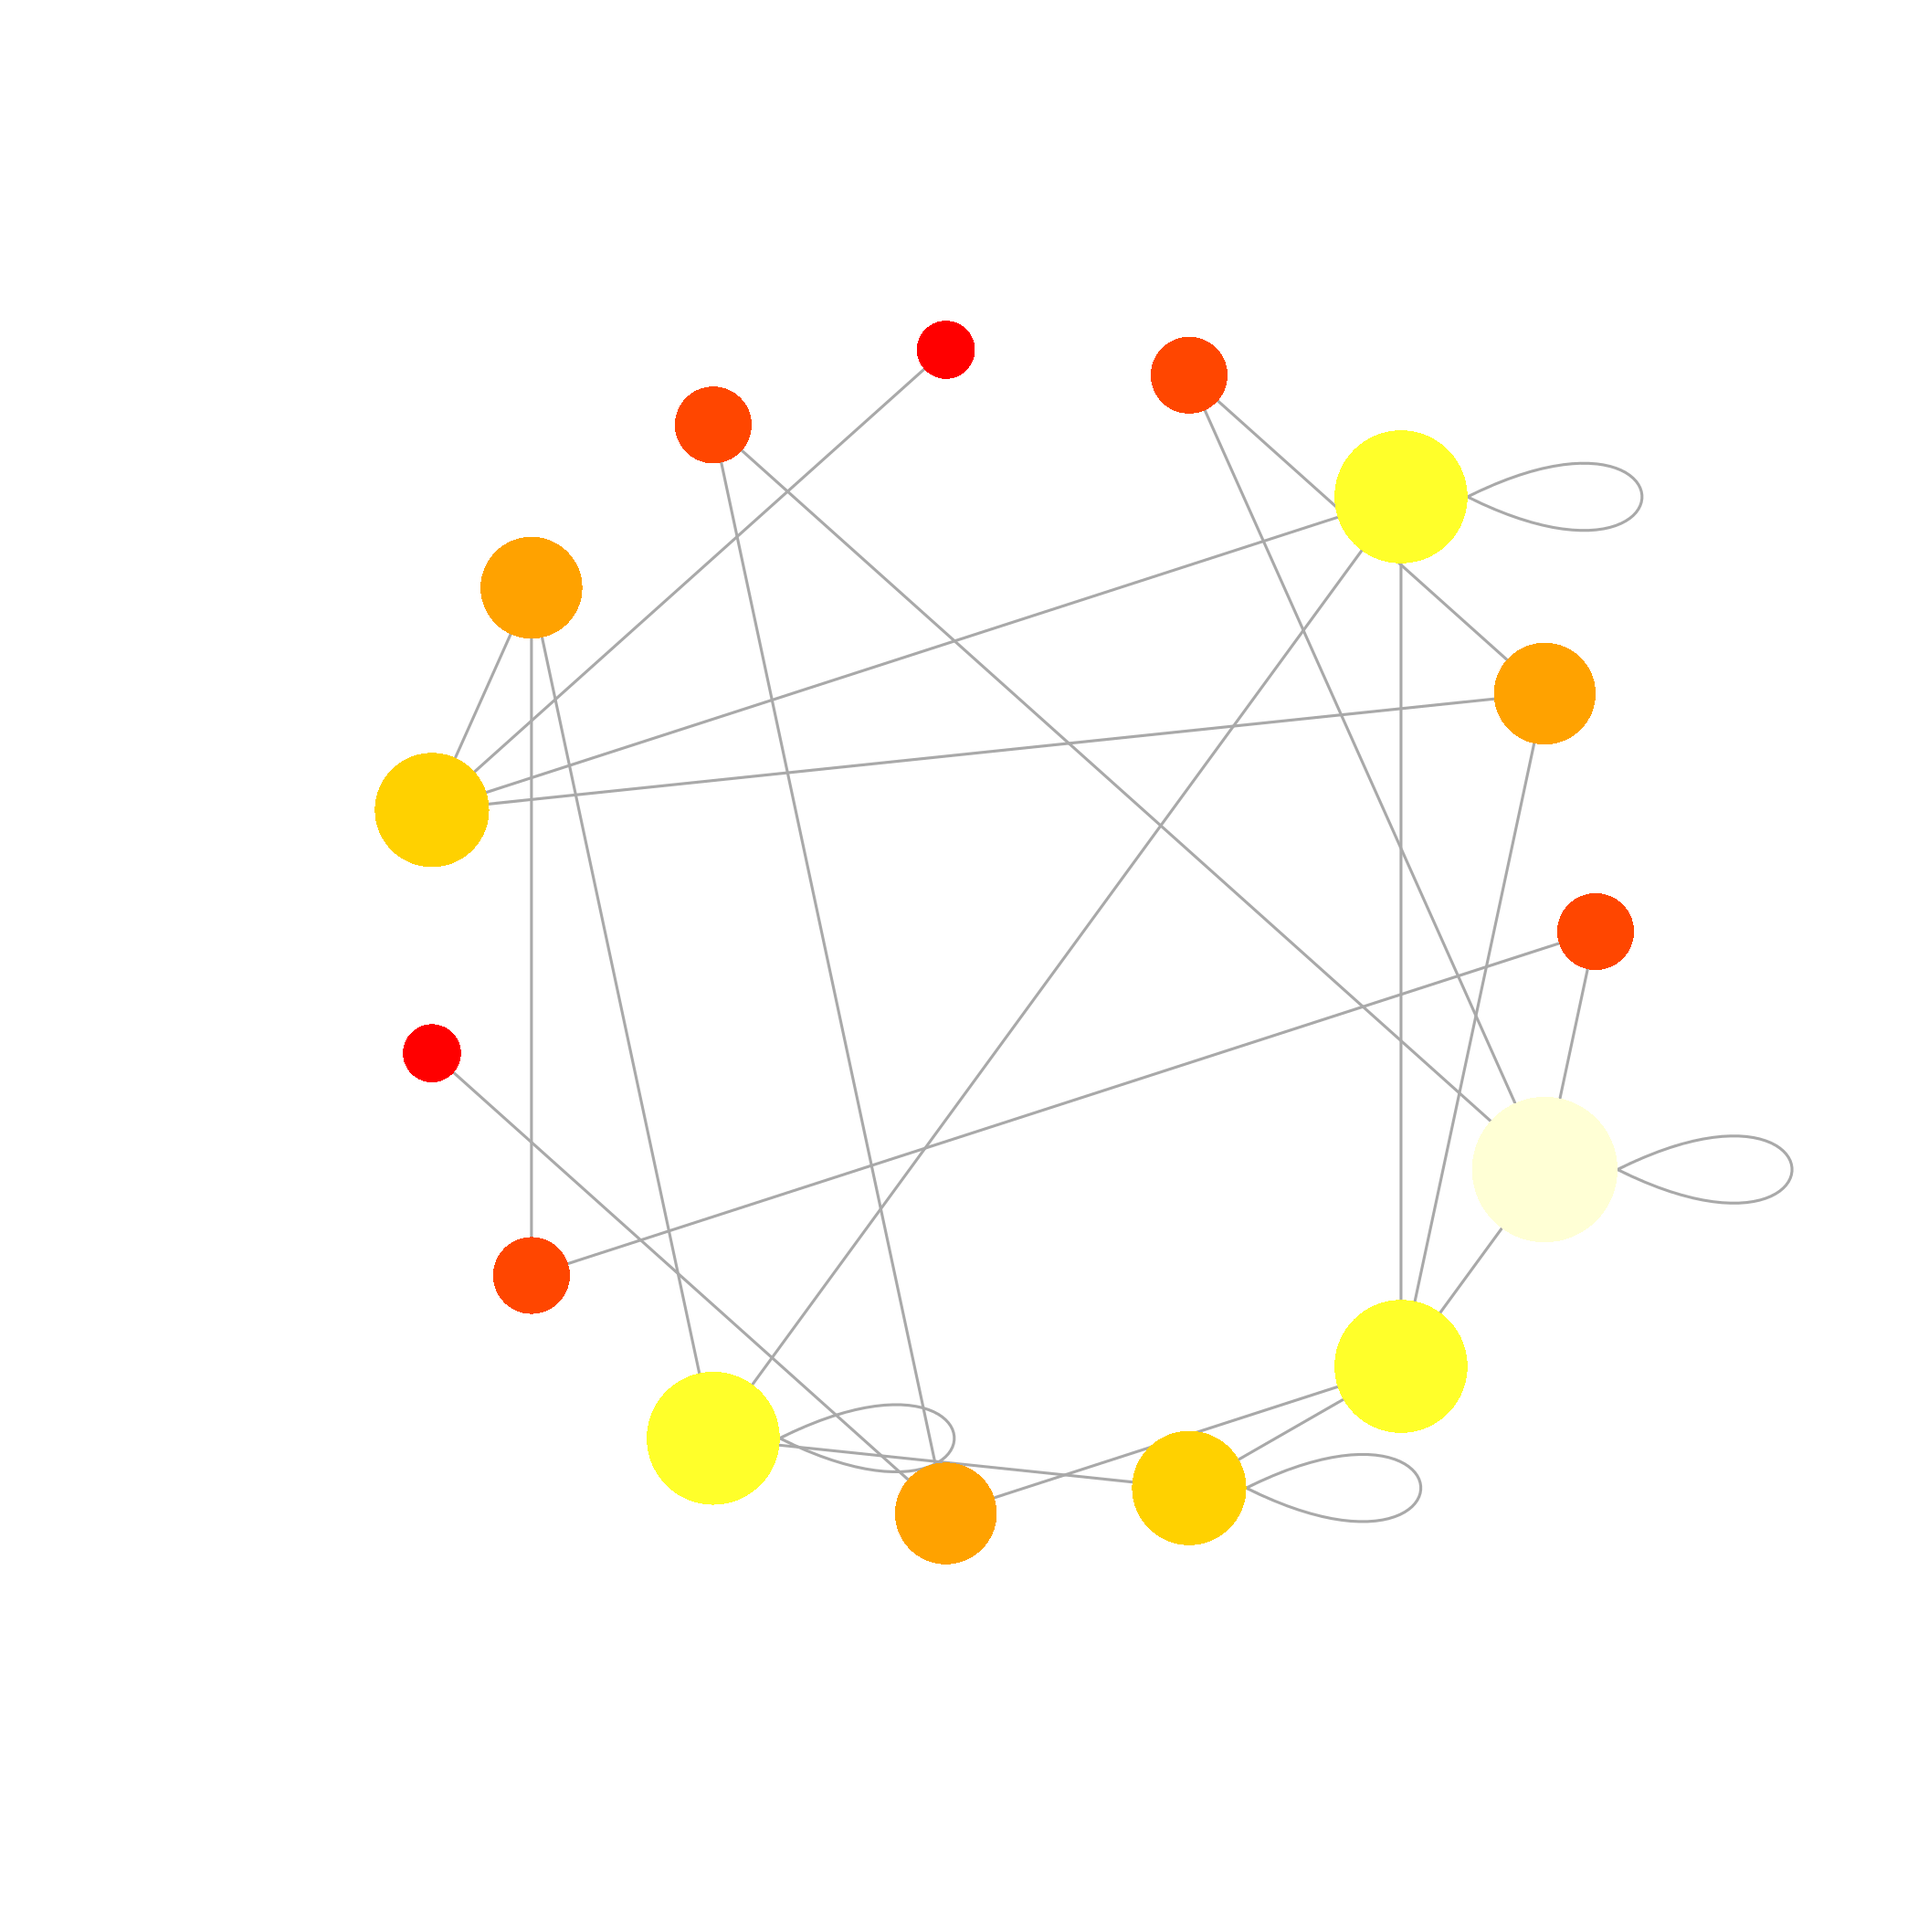
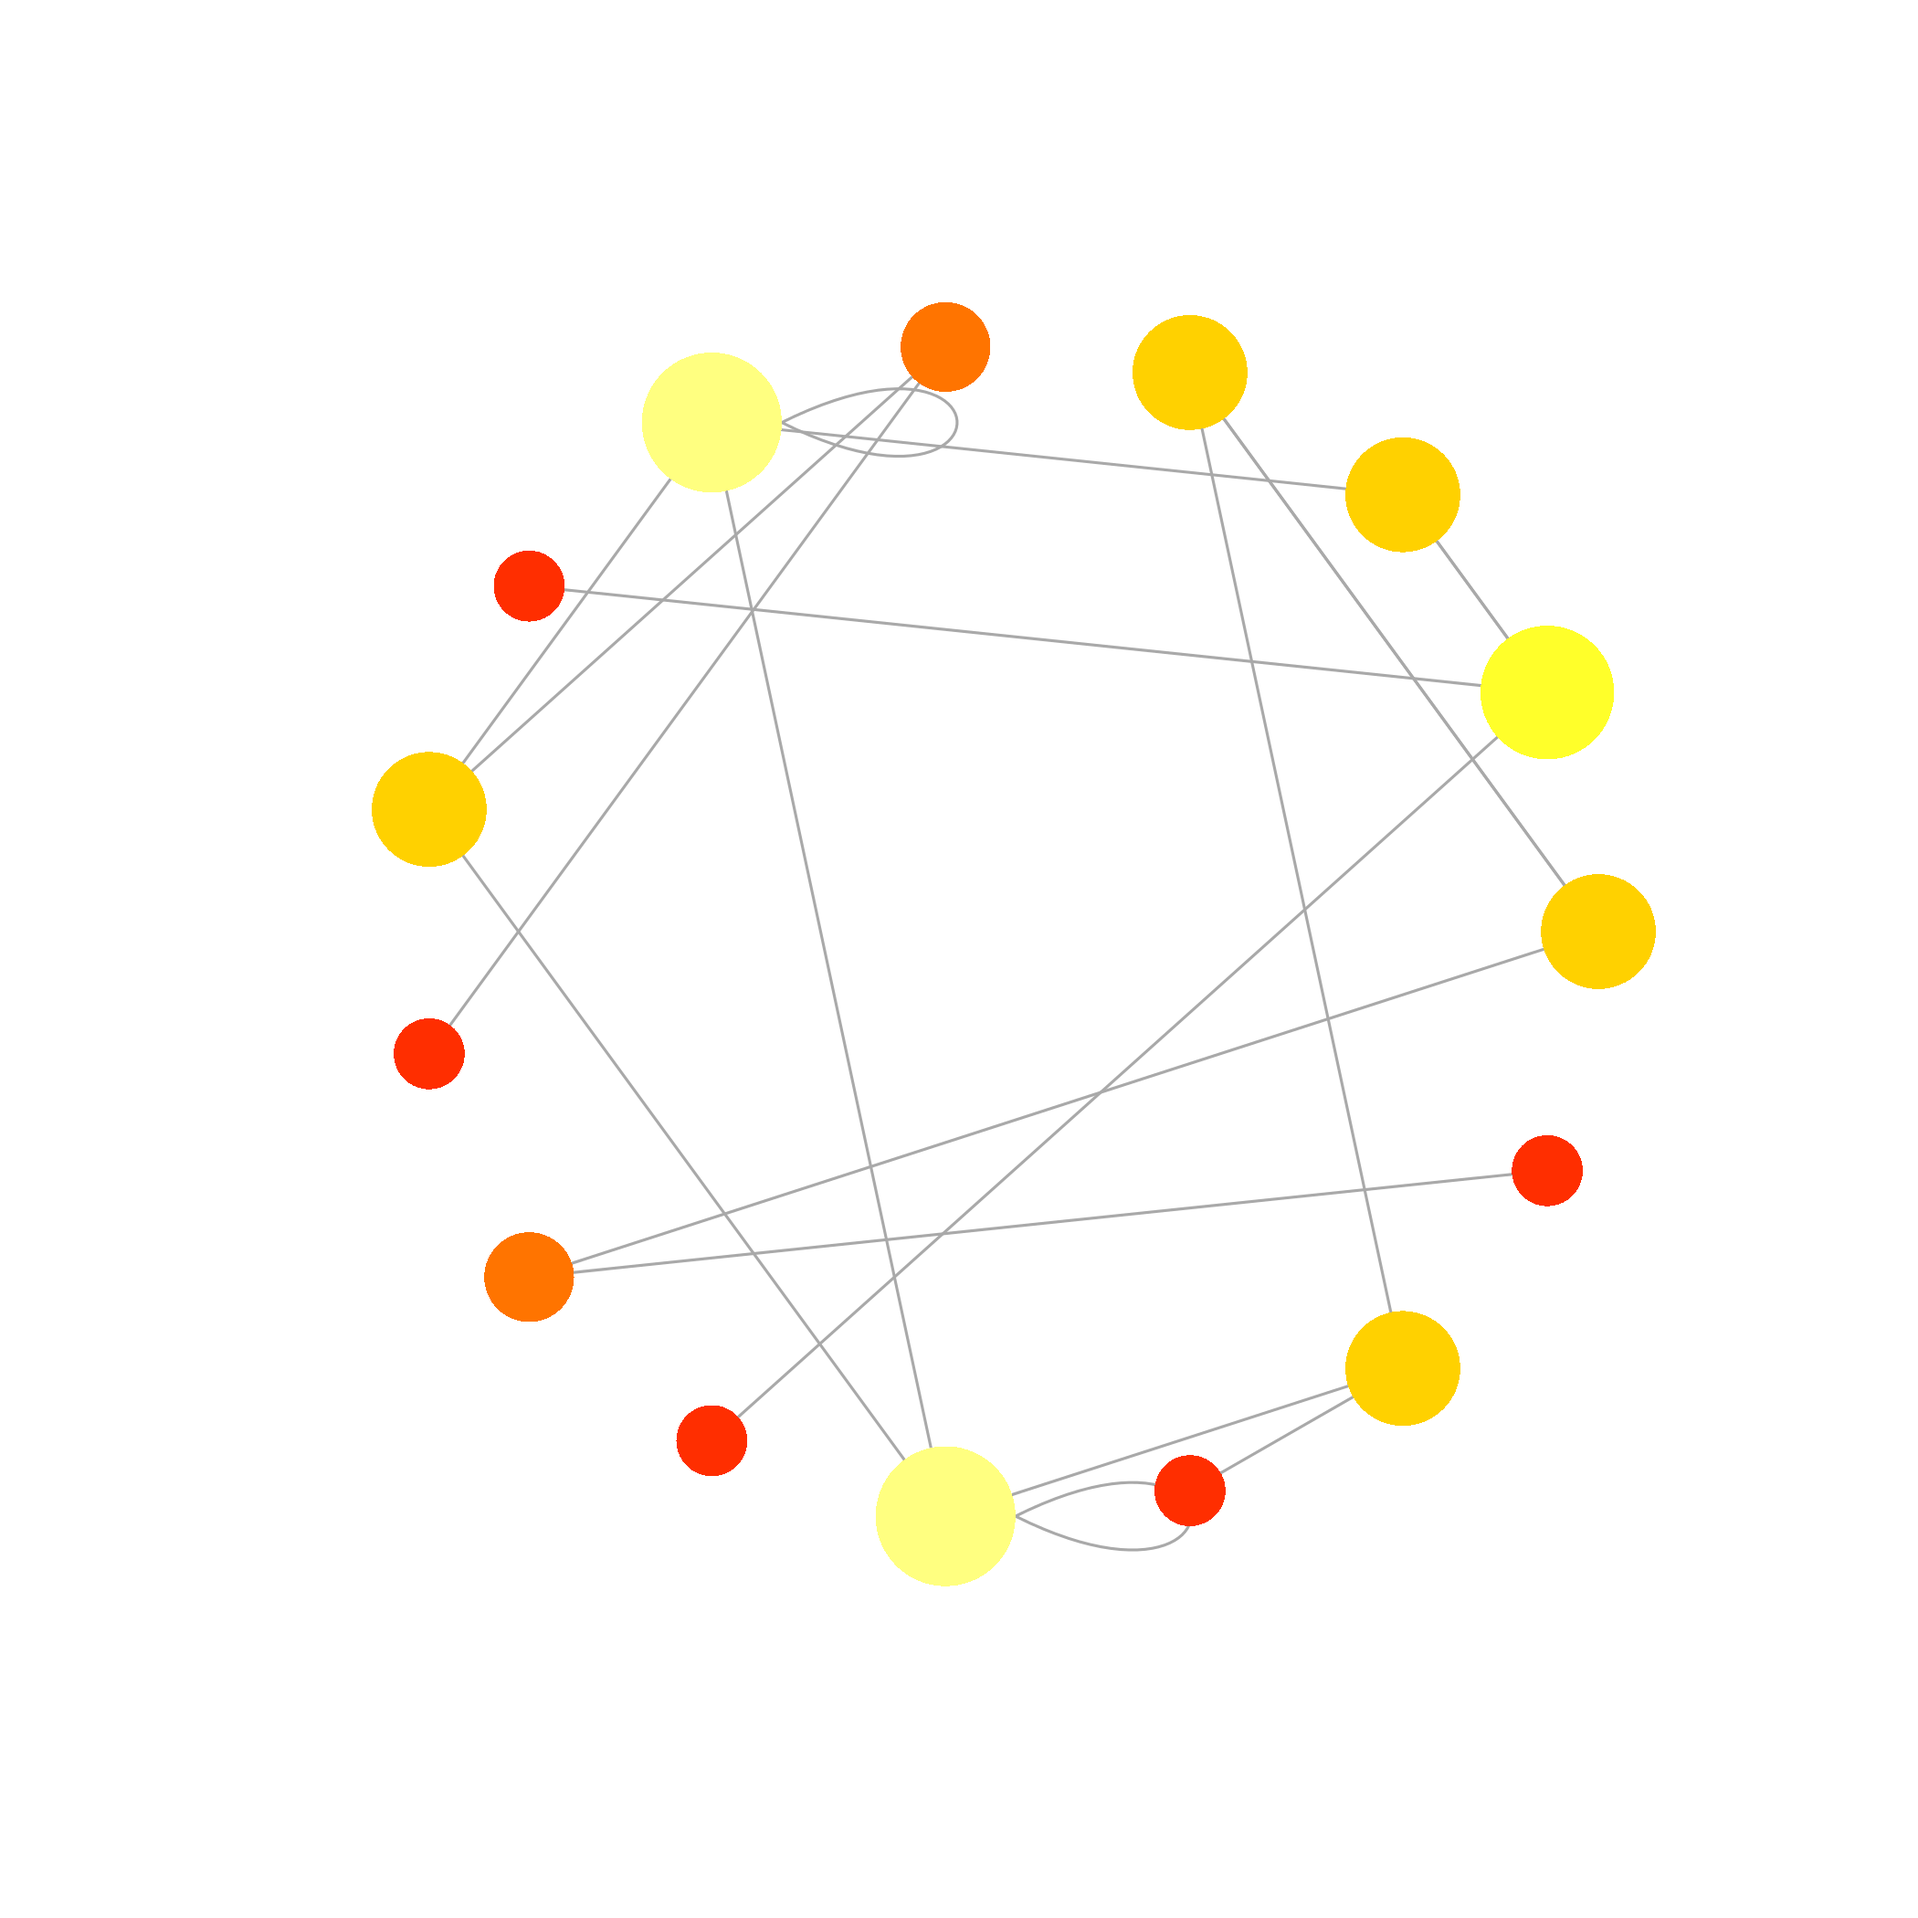
Update the slides

diff --git a/cours5/index.html b/cours5/index.html
@@ -940,7 +940,7 @@ L[runif(S*S) &lt; C] = 1
 sum(L)
 </code></pre>
 
-<pre><code>## [1] 24
+<pre><code>## [1] 19
 </code></pre>
 
 <pre><code class="r">g &lt;- graph.adjacency(L)
@@ -1116,7 +1116,7 @@ plot(g, vertex.label=NA, edge.arrow.mode = 0,
 modularity(wtc)
 </code></pre>
 
-<pre><code>## [1] 0.3229166
+<pre><code>## [1] 0.5166205
 </code></pre>
 
   </article>
@@ -1134,37 +1134,37 @@ modularity(wtc)
 </code></pre>
 
 <pre><code>##       [,1] [,2] [,3] [,4] [,5] [,6] [,7] [,8] [,9] [,10] [,11] [,12] [,13]
-##  [1,]    0    3    3    2    4    2    2    3    4     1     3     3     3
-##  [2,]    3    0    2    1    2    3    2    1    3     3     3     2     2
-##  [3,]    3    2    0    3    2    3    2    1    3     3     1     2     2
-##  [4,]    2    1    3    0    3    2    3    2    4     3     4     3     3
-##  [5,]    4    2    2    3    0    5    2    1    5     3     3     4     4
-##  [6,]    2    3    3    2    5    0    4    4    2     3     4     1     3
-##  [7,]    2    2    2    3    2    4    0    1    5     1     1     4     2
-##  [8,]    3    1    1    2    1    4    1    0    4     2     2     3     3
-##  [9,]    4    3    3    4    5    2    5    4    0     5     4     1     3
-## [10,]    1    3    3    3    3    3    1    2    5     0     2     4     3
-## [11,]    3    3    1    4    3    4    1    2    4     2     0     3     1
-## [12,]    3    2    2    3    4    1    4    3    1     4     3     0     2
-## [13,]    3    2    2    3    4    3    2    3    3     3     1     2     0
-## [14,]    2    1    1    2    3    2    3    2    2     3     2     1     1
-## [15,]    1    2    2    1    4    1    3    3    3     2     3     2     2
+##  [1,]    0    6    5    1    5    4    7    4    6     1     7     3     3
+##  [2,]    6    0    1    5    4    2    1    3    5     7     1     3     5
+##  [3,]    5    1    0    4    3    1    2    2    4     6     2     2     4
+##  [4,]    1    5    4    0    4    3    6    3    5     2     6     2     2
+##  [5,]    5    4    3    4    0    2    5    1    1     6     5     2     4
+##  [6,]    4    2    1    3    2    0    3    1    3     5     3     1     3
+##  [7,]    7    1    2    6    5    3    0    4    6     8     2     4     6
+##  [8,]    4    3    2    3    1    1    4    0    2     5     4     1     3
+##  [9,]    6    5    4    5    1    3    6    2    0     7     6     3     5
+## [10,]    1    7    6    2    6    5    8    5    7     0     8     4     4
+## [11,]    7    1    2    6    5    3    2    4    6     8     0     4     6
+## [12,]    3    3    2    2    2    1    4    1    3     4     4     0     2
+## [13,]    3    5    4    2    4    3    6    3    5     4     6     2     0
+## [14,]    2    4    3    1    3    2    5    2    4     3     5     1     1
+## [15,]    2    8    7    3    7    6    9    6    8     1     9     5     5
 ##       [,14] [,15]
-##  [1,]     2     1
-##  [2,]     1     2
-##  [3,]     1     2
-##  [4,]     2     1
-##  [5,]     3     4
-##  [6,]     2     1
-##  [7,]     3     3
-##  [8,]     2     3
-##  [9,]     2     3
-## [10,]     3     2
-## [11,]     2     3
-## [12,]     1     2
-## [13,]     1     2
-## [14,]     0     1
-## [15,]     1     0
+##  [1,]     2     2
+##  [2,]     4     8
+##  [3,]     3     7
+##  [4,]     1     3
+##  [5,]     3     7
+##  [6,]     2     6
+##  [7,]     5     9
+##  [8,]     2     6
+##  [9,]     4     8
+## [10,]     3     1
+## [11,]     5     9
+## [12,]     1     5
+## [13,]     1     5
+## [14,]     0     4
+## [15,]     4     0
 </code></pre>
 
   </article>
@@ -1181,9 +1181,9 @@ modularity(wtc)
 <pre><code class="r">eigen_centrality(g)$vector
 </code></pre>
 
-<pre><code>##  [1] 0.2895399 0.5738562 0.9962310 0.3892832 0.1801694 0.3440161 0.4934237
-##  [8] 0.6358007 0.1173488 0.2218715 0.8835730 0.4141129 0.7448176 1.0000000
-## [15] 0.7998874
+<pre><code>##  [1] 0.15297180 0.46289798 0.59945648 0.21935362 0.23285841 1.00000000
+##  [7] 0.14408961 0.67559042 0.07248353 0.05272539 0.14408961 0.93752316
+## [13] 0.12412033 0.39874527 0.01641222
 </code></pre>
 
   </article>

diff --git a/cours5/index.md b/cours5/index.md
@@ -660,7 +660,7 @@ sum(L)
 ```
 
 ```
-## [1] 24
+## [1] 19
 ```
 
 ```r
@@ -802,7 +802,7 @@ modularity(wtc)
 ```
 
 ```
-## [1] 0.3229166
+## [1] 0.5166205
 ```
 
 ---
@@ -818,37 +818,37 @@ distances(g)
 
 ```
 ##       [,1] [,2] [,3] [,4] [,5] [,6] [,7] [,8] [,9] [,10] [,11] [,12] [,13]
-##  [1,]    0    3    3    2    4    2    2    3    4     1     3     3     3
-##  [2,]    3    0    2    1    2    3    2    1    3     3     3     2     2
-##  [3,]    3    2    0    3    2    3    2    1    3     3     1     2     2
-##  [4,]    2    1    3    0    3    2    3    2    4     3     4     3     3
-##  [5,]    4    2    2    3    0    5    2    1    5     3     3     4     4
-##  [6,]    2    3    3    2    5    0    4    4    2     3     4     1     3
-##  [7,]    2    2    2    3    2    4    0    1    5     1     1     4     2
-##  [8,]    3    1    1    2    1    4    1    0    4     2     2     3     3
-##  [9,]    4    3    3    4    5    2    5    4    0     5     4     1     3
-## [10,]    1    3    3    3    3    3    1    2    5     0     2     4     3
-## [11,]    3    3    1    4    3    4    1    2    4     2     0     3     1
-## [12,]    3    2    2    3    4    1    4    3    1     4     3     0     2
-## [13,]    3    2    2    3    4    3    2    3    3     3     1     2     0
-## [14,]    2    1    1    2    3    2    3    2    2     3     2     1     1
-## [15,]    1    2    2    1    4    1    3    3    3     2     3     2     2
+##  [1,]    0    6    5    1    5    4    7    4    6     1     7     3     3
+##  [2,]    6    0    1    5    4    2    1    3    5     7     1     3     5
+##  [3,]    5    1    0    4    3    1    2    2    4     6     2     2     4
+##  [4,]    1    5    4    0    4    3    6    3    5     2     6     2     2
+##  [5,]    5    4    3    4    0    2    5    1    1     6     5     2     4
+##  [6,]    4    2    1    3    2    0    3    1    3     5     3     1     3
+##  [7,]    7    1    2    6    5    3    0    4    6     8     2     4     6
+##  [8,]    4    3    2    3    1    1    4    0    2     5     4     1     3
+##  [9,]    6    5    4    5    1    3    6    2    0     7     6     3     5
+## [10,]    1    7    6    2    6    5    8    5    7     0     8     4     4
+## [11,]    7    1    2    6    5    3    2    4    6     8     0     4     6
+## [12,]    3    3    2    2    2    1    4    1    3     4     4     0     2
+## [13,]    3    5    4    2    4    3    6    3    5     4     6     2     0
+## [14,]    2    4    3    1    3    2    5    2    4     3     5     1     1
+## [15,]    2    8    7    3    7    6    9    6    8     1     9     5     5
 ##       [,14] [,15]
-##  [1,]     2     1
-##  [2,]     1     2
-##  [3,]     1     2
-##  [4,]     2     1
-##  [5,]     3     4
-##  [6,]     2     1
-##  [7,]     3     3
-##  [8,]     2     3
-##  [9,]     2     3
-## [10,]     3     2
-## [11,]     2     3
-## [12,]     1     2
-## [13,]     1     2
-## [14,]     0     1
-## [15,]     1     0
+##  [1,]     2     2
+##  [2,]     4     8
+##  [3,]     3     7
+##  [4,]     1     3
+##  [5,]     3     7
+##  [6,]     2     6
+##  [7,]     5     9
+##  [8,]     2     6
+##  [9,]     4     8
+## [10,]     3     1
+## [11,]     5     9
+## [12,]     1     5
+## [13,]     1     5
+## [14,]     0     4
+## [15,]     4     0
 ```
 
 ---
@@ -863,9 +863,9 @@ eigen_centrality(g)$vector
 ```
 
 ```
-##  [1] 0.2895399 0.5738562 0.9962310 0.3892832 0.1801694 0.3440161 0.4934237
-##  [8] 0.6358007 0.1173488 0.2218715 0.8835730 0.4141129 0.7448176 1.0000000
-## [15] 0.7998874
+##  [1] 0.15297180 0.46289798 0.59945648 0.21935362 0.23285841 1.00000000
+##  [7] 0.14408961 0.67559042 0.07248353 0.05272539 0.14408961 0.93752316
+## [13] 0.12412033 0.39874527 0.01641222
 ```
 
 --- .transition
